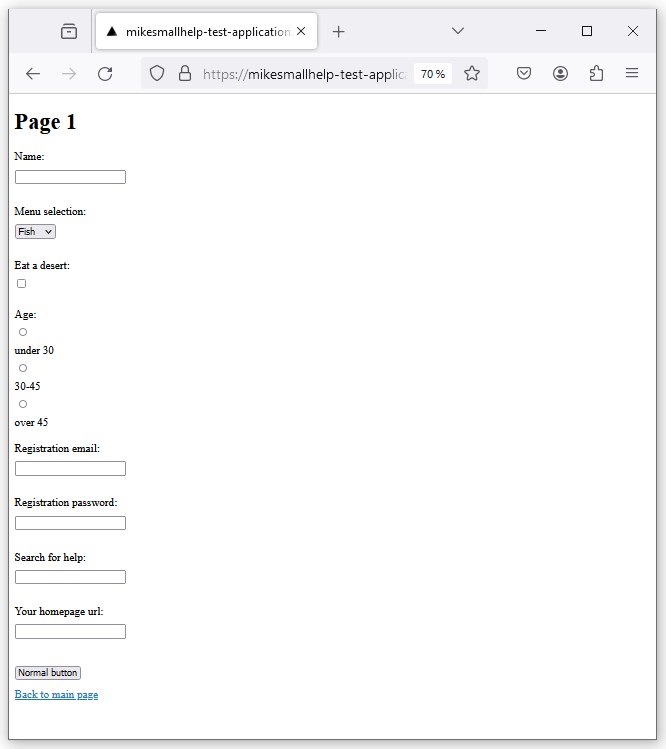
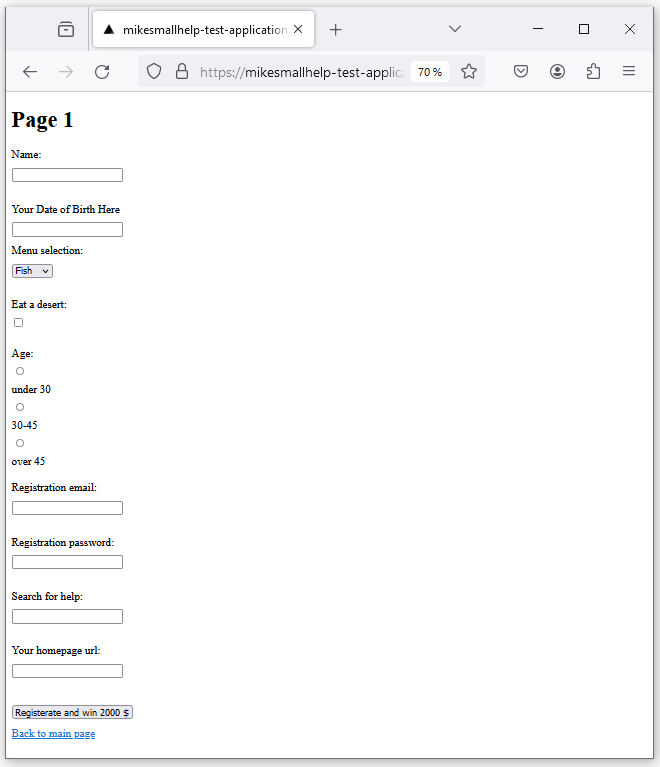
Add date of birth to doc

diff --git a/README.md b/README.md
@@ -102,31 +102,35 @@ Testing in url: https://mikesmallhelp-test-application.vercel.app/. Please wait.
 
 
 Running 1 test using 1 worker
-[chromium] › test.spec.ts:40:1 › test an application
+[chromium] › test.spec.ts:41:1 › test an application
 In the page: https://mikesmallhelp-test-application.vercel.app/
-In the page: https://mikesmallhelp-test-application.vercel.app/working-page
-Push the button #1
-Filling the #1 text input field a value: qHre+Ohx;'w_}l<f_cl=n-?U^vtXCm1FZC4||
-The #1 drop-down list. Selecting the option #2
-Selecting the #1 checkbox
-The #1 radio button group. Selecting the radio button #1
-Filling the #1 email input field a value: hfymxkihm.zixurprs@otjhbiech.com
-Filling the #1 password input field a value: B!2#2B!2bbBB22!bB1
-Filling the #1 search input field a value: zOwJMweOnlw
-Filling the #1 url input field a value: https://mx21i.com
-Push the button #1
 In the page: https://mikesmallhelp-test-application.vercel.app/working-page2
 Push the button #1
-Filling the #1 text input field a value: qHre+Ohx;'w_}l<f_cl=n-?U^vtXCm1FZC4||
+Filling the #1 text input field a value: _k6AKNU3z"{=myqS.K
+The label is 'Your Date of Birth Here', so generating an appropriate random content for the input field
+Filling the #2 text input field a value: 16/09/2004
+The #1 drop-down list. Selecting the option #2
+Selecting the #1 checkbox
+The #1 radio button group. Selecting the radio button #3
+Filling the #1 email input field a value: pvcgigtju.nwntltbk@uqimkbwwiz.com
+Filling the #1 password input field a value: A#1!!a#!#AaA!A
+Filling the #1 search input field a value: SZOmqATkrV
+Filling the #1 url input field a value: https://nrebn.com
+Push the button #1
+In the page: https://mikesmallhelp-test-application.vercel.app/working-page
+Push the button #1
+Filling the #1 text input field a value: _k6AKNU3z"{=myqS.K
+The label is 'Your Date of Birth Here', so generating an appropriate random content for the input field
+Filling the #2 text input field a value: 16/09/2004
 The #1 drop-down list. Selecting the option #2
 Selecting the #1 checkbox
 The #1 radio button group. Selecting the radio button #2
-Filling the #1 email input field a value: qgjrtywmerx.kxmiwsdoxjlk@jhcghovbpr.com
-Filling the #1 password input field a value: 1Aa11a#2abb!
-Filling the #1 search input field a value: fwyKERAv
-Filling the #1 url input field a value: https://0zzvf8.net
+Filling the #1 email input field a value: uxxdxqcjhq.mhettm@ukyefgvdsk.gov
+Filling the #1 password input field a value: aa2B#1aA!##2A#!AaA
+Filling the #1 search input field a value: lSjsBVOzkhCC
+Filling the #1 url input field a value: https://vpo7ut.net
 Push the button #1
-  1 passed (54.0s)
+  1 passed (24.3s)
 ```
 Note that output contains "1 passed" so wacat didn't find any errors in the application. Please note also that a default wait time for every page is 5000 milliseconds. If you want to change this time use the flag --wait (see later).
 
